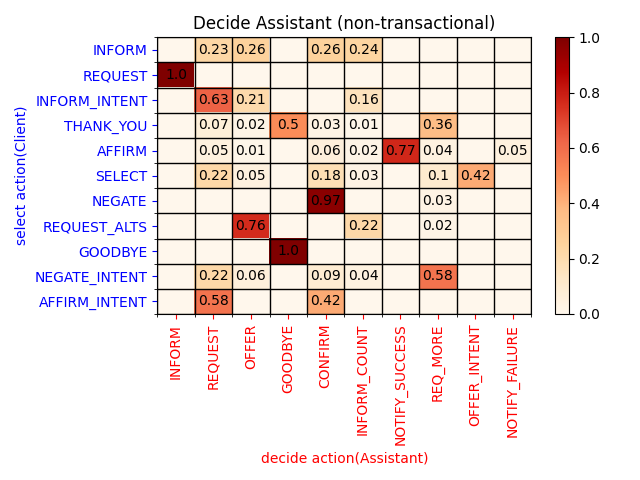
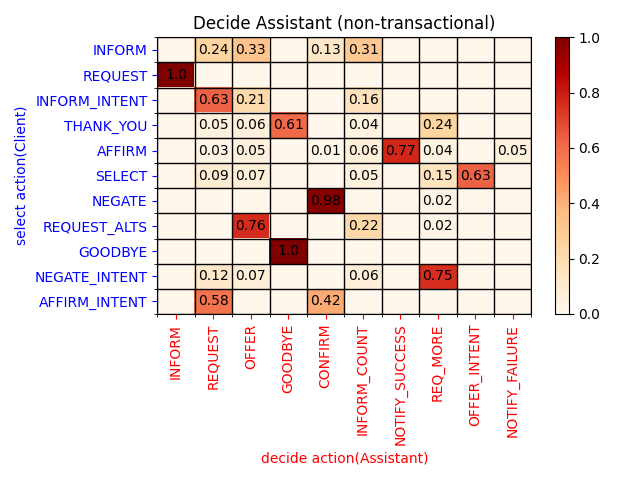
update goal matrix

diff --git a/goal_generation/usr_sys_generator.py b/goal_generation/usr_sys_generator.py
@@ -97,6 +97,76 @@ def get_sys_act(sys_act, slots=[]):
         print("sys", sys_act)
     if sys_act == "GOOD_BYE": return True
 
+def show_act():
+    if usr_act != "none": 
+        if usr_act == "INFORM_INTENT":
+            domain_index = np.random.choice([i for i in range(len(schemas))], 1, p=domain_transition_matrix[domain_index])[0] 
+            state_d = schemas[domain_index]                            
+            intent_i = random.choice(state_d["intents"]) #select intent from domain_i(state_d)
+            if is_transactional(value_list, intent_i["name"]):
+                usr_mat = usr_matrix
+                sys_mat = sys_matrix                    
+            else: 
+                usr_mat = non_usr_matrix
+                sys_mat = non_sys_matrix
+            slots_i = list(intent_i["required_slots"])
+            
+            print("usr", f"{usr_act}(", intent_i["name"], ")")
+            
+        elif usr_act == "INFORM":     
+            if slots_i: print("usr", f"{usr_act}(", slots_i, "=)")
+            else: 
+                optional_slot = np.random.choice(list(intent_i["optional_slots"].keys()), 1)[0]
+                print("usr", f"{usr_act}(", optional_slot, "=)")
+
+        elif usr_act == "REQUEST":
+            print("usr", f"{usr_act}(", slots_i, ")")
+        else:
+            print("usr", usr_act)
+
+    if usr_act_inner != "none": 
+        if usr_act_inner == "INFORM_INTENT":
+            
+            domain_index = np.random.choice([i for i in range(len(schemas))], 1, p=domain_transition_matrix[domain_index])[0] 
+            state_d = schemas[domain_index]                            
+            intent_i = random.choice(state_d["intents"]) #select intent from domain_i(state_d)
+            if is_transactional(value_list, intent_i["name"]):
+                usr_mat = usr_matrix
+                sys_mat = sys_matrix
+            else: 
+                usr_mat = non_usr_matrix
+                sys_mat = non_sys_matrix
+            slots_i = list(intent_i["required_slots"])
+             
+            print("usr", f"{usr_act_inner}(", intent_i["name"], ")")
+        elif usr_act_inner == "INFORM":            
+            if slots_i: print("usr", f"{usr_act_inner}(", slots_i, "=)")
+            else: 
+                optional_slot = np.random.choice(list(intent_i["optional_slots"].keys()), 1)[0]
+                print("usr", f"{usr_act_inner}(", optional_slot, "=)")
+        elif usr_act_inner == "REQUEST":
+            print("usr", f"{usr_act_inner}(", slots_i, ")")
+        else:
+            print("usr", usr_act_inner)
+    print()
+    if sys_act != "none":
+        if  sys_act == "REQUEST":
+            if slots_i: print("sys", f"{sys_act}(", slots_i, ")")
+            elif optional_slot: print("sys", f"{sys_act}(", optional_slot, ")")
+            else:
+                optional_slot = np.random.choice(list(intent_i["optional_slots"].keys()), 1)[0]
+                print("sys", f"{sys_act}(", optional_slot, ")")
+        else:
+            print("sys", f"{sys_act}")
+
+    if sys_act_inner != "none": 
+        if  sys_act == "REQUEST":
+            print("sys", f"{sys_act_inner}(", optional_slot, ")")
+        else:
+            print("sys", sys_act_inner)
+
+    
+
 def get_frame():
     '''
     {
@@ -123,104 +193,59 @@ def get_frame():
         "utterance": 
       }
     '''
-    
+
+def gen_init_state(value_list, intent_i):
+    usr_idx, sys_idx = 3, 3
+    usr_idx = np.random.choice([i for i in range(len(non_usr_matrix[sys_idx]))], 1, p=non_usr_matrix[sys_idx])[0]
+    usr_idx_inner = np.random.choice([i for i in range(len(usr_inner_matrix[usr_idx]))], 1, p=usr_inner_matrix[usr_idx])[0]
+    old_usr_idx = deepcopy(usr_idx_inner) if usr_acts[usr_idx_inner]!='none' else deepcopy(usr_idx)
+
+    _, sys_mat = is_trans(value_list, intent_i)
+    sys_idx = np.random.choice([i for i in range(len(sys_mat[old_usr_idx]))], 1, p=sys_mat[old_usr_idx])[0]    
+    sys_idx_inner = np.random.choice([i for i in range(len(sys_inner_matrix[sys_idx]))], 1, p=sys_inner_matrix[sys_idx])[0]
+    old_sys_idx = deepcopy(sys_idx_inner) if sys_acts[sys_idx_inner]!='none' else deepcopy(sys_idx)
+    return (usr_idx, sys_idx), (usr_idx_inner, sys_idx_inner), (old_usr_idx, old_sys_idx)
+
+def is_trans(value_list, intent_i):
+    if is_transactional(value_list, intent_i["name"]):
+        usr_mat = usr_matrix
+        sys_mat = sys_matrix                    
+    else: 
+        usr_mat = non_usr_matrix
+        sys_mat = non_sys_matrix
+    return usr_mat, sys_mat
+
 def generate_goal(file_name):
-    domain_index, usr_idx, sys_idx = 0, 3, 3
+    domain_index = 0
     u_act_list, s_act_list = [], []
     optional_slot = None
     MAX_GOALS, goal_counter = 5, 0
     schemas = json.loads(open(file_name, "r", encoding="utf-8").read())
     value_list = analysis_schema(file_name)
+    domain_index = np.random.choice([i for i in range(len(schemas))], 1, p=domain_transition_matrix[domain_index])[0] 
+    state_d = schemas[domain_index]                            
+    intent_i = random.choice(state_d["intents"]) #select intent from domain_i(state_d)
     #initial state
-    usr_idx = np.random.choice([i for i in range(len(non_usr_matrix[sys_idx]))], 1, p=non_usr_matrix[sys_idx])[0]
-    usr_idx_inner = np.random.choice([i for i in range(len(usr_inner_matrix[usr_idx]))], 1, p=usr_inner_matrix[usr_idx])[0]
-    old_usr_idx = deepcopy(usr_idx_inner) if usr_acts[usr_idx_inner]!='none' else deepcopy(usr_idx)
-
-    sys_idx = np.random.choice([i for i in range(len(non_sys_matrix[old_usr_idx]))], 1, p=non_sys_matrix[old_usr_idx])[0]    
-    sys_idx_inner = np.random.choice([i for i in range(len(sys_inner_matrix[sys_idx]))], 1, p=sys_inner_matrix[sys_idx])[0]
-    old_sys_idx = deepcopy(sys_idx_inner) if sys_acts[sys_idx_inner]!='none' else deepcopy(sys_idx)
+    (usr_idx, sys_idx), (usr_idx_inner, sys_idx_inner), (old_usr_idx, old_sys_idx) = gen_init_state(value_list, intent_i)
    
     while True:          
         usr_act, sys_act = (usr_acts[usr_idx], sys_acts[sys_idx])
-        usr_act_inner, sys_act_inner = (usr_acts[usr_idx_inner], sys_acts[sys_idx_inner])        
-
-        if usr_act != "none": 
-            if usr_act == "INFORM_INTENT":
-                domain_index = np.random.choice([i for i in range(len(schemas))], 1, p=domain_transition_matrix[domain_index])[0] 
-                state_d = schemas[domain_index]                            
-                intent_i = random.choice(state_d["intents"]) #select intent from domain_i(state_d)
-                if is_transactional(value_list, intent_i["name"]):
-                    usr_mat = usr_matrix
-                    sys_mat = sys_matrix                    
-                else: 
-                    usr_mat = non_usr_matrix
-                    sys_mat = non_sys_matrix
-                slots_i = list(intent_i["required_slots"])
-                
-                print("usr", f"{usr_act}(", intent_i["name"], ")")
-                
-            elif usr_act == "INFORM":     
-                if slots_i: print("usr", f"{usr_act}(", slots_i, "=)")
-                else: 
-                    optional_slot = np.random.choice(list(intent_i["optional_slots"].keys()), 1)[0]
-                    print("usr", f"{usr_act}(", optional_slot, "=)")
-
-            elif usr_act == "REQUEST":
-                print("usr", f"{usr_act}(", slots_i, ")")
-            else:
-                print("usr", usr_act)
-
-        if usr_act_inner != "none": 
-            if usr_act_inner == "INFORM_INTENT":
-                
-                domain_index = np.random.choice([i for i in range(len(schemas))], 1, p=domain_transition_matrix[domain_index])[0] 
-                state_d = schemas[domain_index]                            
-                intent_i = random.choice(state_d["intents"]) #select intent from domain_i(state_d)
-                if is_transactional(value_list, intent_i["name"]):
-                    usr_mat = usr_matrix
-                    sys_mat = sys_matrix
-                else: 
-                    usr_mat = non_usr_matrix
-                    sys_mat = non_sys_matrix
-                slots_i = list(intent_i["required_slots"])
-                 
-                print("usr", f"{usr_act_inner}(", intent_i["name"], ")")
-            elif usr_act_inner == "INFORM":            
-                if slots_i: print("usr", f"{usr_act_inner}(", slots_i, "=)")
-                else: 
-                    optional_slot = np.random.choice(list(intent_i["optional_slots"].keys()), 1)[0]
-                    print("usr", f"{usr_act_inner}(", optional_slot, "=)")
-            elif usr_act_inner == "REQUEST":
-                print("usr", f"{usr_act_inner}(", slots_i, ")")
-            else:
-                print("usr", usr_act_inner)
-        print()
-        if sys_act != "none":
-            if  sys_act == "REQUEST":
-                if slots_i: print("sys", f"{sys_act}(", slots_i, ")")
-                elif optional_slot: print("sys", f"{sys_act}(", optional_slot, ")")
-                else:
-                    optional_slot = np.random.choice(list(intent_i["optional_slots"].keys()), 1)[0]
-                    print("sys", f"{sys_act}(", optional_slot, ")")
-            else:
-                print("sys", f"{sys_act}")
-
-        if sys_act_inner != "none": 
-            if  sys_act == "REQUEST":
-                print("sys", f"{sys_act_inner}(", optional_slot, ")")
-            else:
-                print("sys", sys_act_inner)
-
-        if sys_act == "GOODBYE" or sys_act_inner == "GOODBYE":
-            break        
-        print()
+        usr_act_inner, sys_act_inner = (usr_acts[usr_idx_inner], sys_acts[sys_idx_inner]) 
+        domain_index = np.random.choice([i for i in range(len(schemas))], 1, p=domain_transition_matrix[domain_index])[0] 
+        state_d = schemas[domain_index]                            
+        intent_i = random.choice(state_d["intents"]) #select intent from domain_i(state_d)
+        usr_mat, sys_mat = is_trans(value_list, intent_i)
+        slots_i = list(intent_i["required_slots"])      
+        if sys_act == "GOODBYE" or sys_act_inner == "GOODBYE":break 
+        print(np.around(usr_mat, decimals=3), old_sys_idx)
+        
         usr_idx = np.random.choice([i for i in range(len(usr_mat[old_sys_idx]))], 1, p=usr_mat[old_sys_idx])[0]
         usr_idx_inner = np.random.choice([i for i in range(len(usr_inner_matrix[usr_idx]))], 1, p=usr_inner_matrix[usr_idx])[0]
-        old_usr_idx = deepcopy(usr_idx_inner) if usr_acts[usr_idx_inner]!='none' else deepcopy(usr_idx)
+        #old_usr_idx = deepcopy(usr_idx_inner) if usr_acts[usr_idx_inner]!='none' else deepcopy(usr_idx)
         
         sys_idx = np.random.choice([i for i in range(len(sys_mat[old_usr_idx]))], 1, p=sys_mat[old_usr_idx])[0]        
         sys_idx_inner = np.random.choice([i for i in range(len(sys_inner_matrix[sys_idx]))], 1, p=sys_inner_matrix[sys_idx])[0]
-        old_sys_idx = deepcopy(sys_idx_inner) if sys_acts[sys_idx_inner]!='none' else deepcopy(sys_idx)
+        #old_sys_idx = deepcopy(sys_idx_inner) if sys_acts[sys_idx_inner]!='none' else deepcopy(sys_idx)
 
 def draw_matrix(matrix, select_acts=[], output_acts=[], labels=[], img_name='default'):
     

diff --git a/goal_generation/data/analysis.py b/goal_generation/data/analysis.py
@@ -9,8 +9,8 @@ def get_action_times(paths, out_file):
          ["INFORM", "REQUEST", "OFFER", "GOODBYE", "CONFIRM", "INFORM_COUNT", "NOTIFY_SUCCESS", "REQ_MORE", "OFFER_INTENT", "NOTIFY_FAILURE", "none"]
     usr_index, sys_index = 0, 0 
     usr_in_index, sys_in_index = -1, -1 
-    usr_matrix = np.zeros((len(sys_acts)-1, len(usr_acts)-1))
-    sys_matrix = np.zeros((len(usr_acts)-1, len(sys_acts)-1))
+    usr_matrix, tmp_usr_matrix = np.zeros((len(sys_acts)-1, len(usr_acts)-1)), np.zeros((len(sys_acts)-1, len(usr_acts)-1))
+    sys_matrix, tmp_sys_matrix = np.zeros((len(usr_acts)-1, len(sys_acts)-1)), np.zeros((len(usr_acts)-1, len(sys_acts)-1))
 
     usr_inner_matrix = np.zeros((len(usr_acts), len(usr_acts)))
     sys_inner_matrix = np.zeros((len(sys_acts), len(sys_acts)))
@@ -22,27 +22,36 @@ def get_action_times(paths, out_file):
             file_name = os.path.join(file_path, d_file)
             dialogs = json.loads(open(file_name, encoding='utf-8').read())
             for dialog in dialogs:
-                tran_bool = is_transactional(value_list, dialog["turns"][0]["frames"][0]["actions"][0]["canonical_values"][-1]) or \
-                     is_transactional(value_list, dialog["turns"][0]["frames"][0]["actions"][-1]["canonical_values"][-1])
-                if not tran_bool: continue      
+                tmp_usr_matrix = np.zeros((len(sys_acts)-1, len(usr_acts)-1))
+                tmp_sys_matrix = np.zeros((len(usr_acts)-1, len(sys_acts)-1))
+                tran_bool = is_transactional(value_list, dialog["turns"][0]["frames"][0]["actions"][0]["values"][-1]) or \
+                     is_transactional(value_list, dialog["turns"][0]["frames"][0]["actions"][-1]["values"][-1])
+                if tran_bool: continue      
                 for turn in dialog["turns"]:
                     for frame in turn["frames"]:                                                 
-                        act = frame["actions"][-1] 
+                        act = frame["actions"][-1]
+                        for a in frame["actions"]:
+                            if a["act"] == "INFORM_INTENT":
+                                tran_bool = is_transactional(value_list, a["values"][-1])
+                                if tran_bool: break  
+                        if tran_bool: continue
                         #print(act['act'], act["values"])  
                         #input()
                         if not is_start: 
-                            if act["act"] == "INFORM_INTENT" and not is_transactional(value_list, act["values"][-1]):continue
+                            if act["act"] == "INFORM_INTENT" and is_transactional(value_list, act["values"][-1]):continue
                             is_start = True
                             if turn['speaker'] == 'USER':usr_index = usr_acts.index(act['act'])
                             else:sys_index = sys_acts.index(act['act'])
                         else:                            
-                            if act["act"] == "INFORM_INTENT" and not is_transactional(value_list, act["values"][-1]):continue
+                            if act["act"] == "INFORM_INTENT" and is_transactional(value_list, act["values"][-1]):continue
                             if turn['speaker'] == 'USER':
                                 usr_index = usr_acts.index(act['act'])
-                                usr_matrix[sys_index, usr_index] += 1
+                                tmp_usr_matrix[sys_index, usr_index] += 1
                             else:
                                 sys_index = sys_acts.index(act['act'])
-                                sys_matrix[usr_index, sys_index] += 1                            
+                                tmp_sys_matrix[usr_index, sys_index] += 1   
+                usr_matrix += np.copy(tmp_usr_matrix)
+                sys_matrix += np.copy(tmp_sys_matrix)
                 is_start = False
 
     pprint(action_times)
@@ -113,8 +122,8 @@ if __name__=="__main__":
     paths = ['train', 'test', 'dev']
     #value_list = analysis_schema('schema.json')
     #print(value_list)
-    time_matrix = '../matrix/matrix.npy'
+    time_matrix = '../matrix/matrix_non.npy'
     get_action_times(paths, time_matrix)
-    get_weighted_matrix(time_matrix, '../matrix/matrix_weighted.npy')
+    get_weighted_matrix(time_matrix, '../matrix/non_matrix_weighted.npy')
     #path = 'ptt\\data\\source_replies\\reply'
     #analysis_ptt(path)
